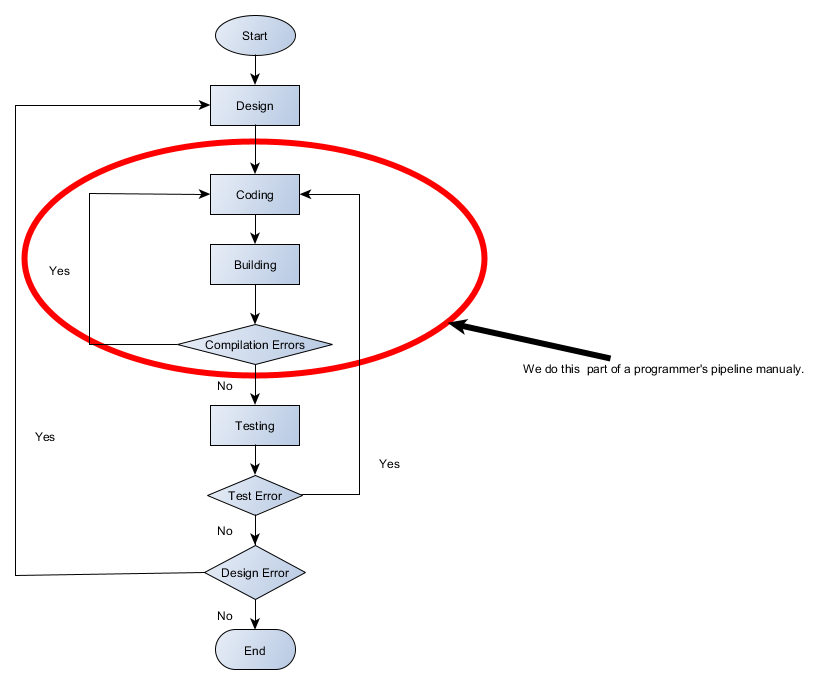
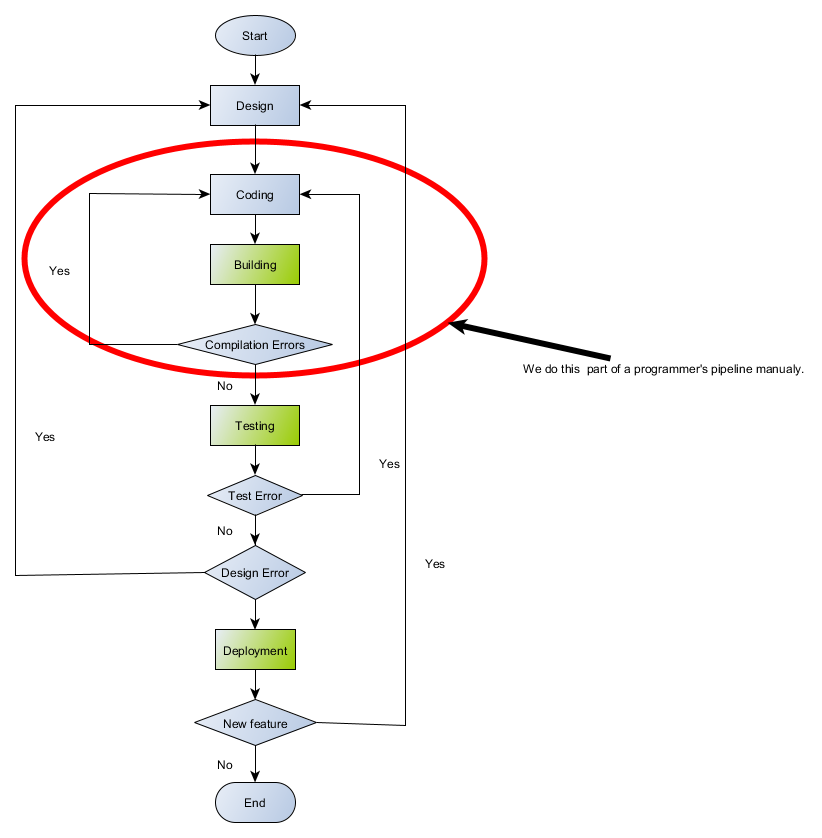
Command line update.

diff --git a/Docs/CommandLine.md b/Docs/CommandLine.md
@@ -18,7 +18,15 @@ Our previous levels were a breeze, but from then on the story shifts gears. Get 
 ## A typical programmer's pipeline
 
 ![Simple flowchart](../assets/ProgrammerFlowChart.png)  
-Figure 1.1 A programmer flowchart
+Figure 1.1 A programmer flowchart  
+
+[Design](https://en.wikipedia.org/wiki/Software_design) is the process we create a specification of a solution.  
+[Coding](https://en.wikipedia.org/wiki/Computer_programming) is the realization of an application.  
+[Building](https://en.wikipedia.org/wiki/Software_build) is the process of converting source code files into standalone software binaries.  
+[Testing](https://en.wikipedia.org/wiki/Software_testing) is the process of checking quality and finding bugs.:bug::bug::bug:  
+[Deployment](https://en.wikipedia.org/wiki/Software_deployment) is all of the activities that make a software system available for use.  
+
+In this tutorial we'll use [CMake]({{site.baseurl}}/Docs/AdditionalReadingResources#cmake-id). It is a suite of tools which can help us to end up our project successfully. It is useful from building then testing right through to preparing packages ready for distribution.
 
 ## Building binaries
 
@@ -26,11 +34,13 @@ We need the three basic tools :hammer::hammer::hammer: to build C++ applications
 the librarian:hammer:. **Remember these are command line tools.** Again a [**toolchain**](https://en.wikipedia.org/wiki/Toolchain) is a set of these programs and additional tools. The compiler transforms C++ source code files and produces [object file](https://en.wikipedia.org/wiki/Object_file). The librarian create a static library from a set of object files. The linker takes object files and libraries and resolves their symbolic references to generate an executable (application) or a dynamic/shared library. The object files and static libraries are only needed during building an application. An executable may depend on dynamic/shared libraries thus they are essential during the execution of app and have to be accessible when the application is running. What is more one shared library may rely on other shared ones.  
 
 ![Build process](../assets/buildprocess.png)  
-Figure 1.2 The Three Musketeers (a compiler, librarian and linker) in action
+Figure 1.2 The compile and link process.  
+
+The figure above presents **The Three Musketeers** (a compiler, librarian and linker) in action. On the left you see a process of creation of a static library, which is later linked to an executable or dynamic link library by the linker.
 
 ### Compilation environment
 
-The tools in the toolchain are command-line build tools, which need several environment variables to work properly. Variables are customized for your installation and build configuration. For instance Visual C++ command-line tools use the PATH, TMP, INCLUDE, LIB, and LIBPATH environment variables. (see detail [Set the Path and Environment Variables for Command-Line Builds]({{site.baseurl}}/Docs/AdditionalReadingResources#MSVC-id)). For GNU compilers see [Environment Variables Affecting GCC]({{site.baseurl}}/Docs/AdditionalReadingResources#GNU-id). As a cross-platform programmers we should think abstractively. Try to think of building process in general terms and treat your build tools as a implementation of a part of this abstraction. Just like [OOP](https://en.wikipedia.org/wiki/Object-oriented_programming). When I write a terminal or a console I mean any implementation of it, [macOS](https://en.wikipedia.org/wiki/Terminal_(macOS)), [Mintty]({{ site.baseurl}}/Docs/AdditionalReadingResources#MSYS2-id) for example. A shell, it can be [Bash]({{ site.baseurl}}/Docs/AdditionalReadingResources#GNU-id), [Cmd]({{ site.baseurl}}/Docs/AdditionalReadingResources#MSVC-id). To prepare a compilation environment Windows toolchains provide scripts (see details [piggybacking](#piggybackings) for [MSVC](#msvc)  and [Mingw64-shell](#mingw64-shell)) that set a number of environment variables required for build tools. On Linux there is typically a dominant C++ compiler and the compiling environment is set out of box. A process of building binaries can be described as follow:
+To work properly a compiler needs a correct operating environment. The tools in the toolchain are command-line build tools, which need several environment variables to work properly. Variables are customized for your installation and build configuration. For instance Visual C++ command-line tools use the PATH, TMP, INCLUDE, LIB, and LIBPATH environment variables. (see detail [Set the Path and Environment Variables for Command-Line Builds]({{site.baseurl}}/Docs/AdditionalReadingResources#MSVC-id)). For GNU compilers see [Environment Variables Affecting GCC]({{site.baseurl}}/Docs/AdditionalReadingResources#GNU-id). As a cross-platform programmers we should think abstractively. Try to think of building process in general terms and treat your build tools as a implementation of a part of this abstraction. Just like [OOP](https://en.wikipedia.org/wiki/Object-oriented_programming). When I write a terminal or a console I mean any implementation of it, [macOS](https://en.wikipedia.org/wiki/Terminal_(macOS)), [Mintty]({{ site.baseurl}}/Docs/AdditionalReadingResources#MSYS2-id) for example. A shell, it can be [Bash]({{ site.baseurl}}/Docs/AdditionalReadingResources#GNU-id), [Cmd]({{ site.baseurl}}/Docs/AdditionalReadingResources#MSVC-id). To prepare a compilation environment Windows toolchains provide scripts (see details [piggybacking](#piggybackings) for [MSVC](#msvc)  and [Mingw64-shell](#mingw64-shell)) that set a number of environment variables required for build tools. On Linux there is typically a dominant C++ compiler and the compiling environment is set out of box. A process of building binaries can be described as follow:
 
 - open your terminal/console;  
 - if it's applicable set any environment variables required by your toolset;  
@@ -38,6 +48,13 @@ The tools in the toolchain are command-line build tools, which need several envi
 
 For Windows users. Very often for Mingw64 compiler setting Path variable is enough. Although using shortcut [Mingw64-shell](#mingw64-shell) is **preferable**. To set variable write in command line:  
     **set PATH=\<directory where your Mingw64 compiler is>;%PATH%**;
+
+### Compilation process
+
+![Compilation process](../assets/CompilationProcess.png)  
+Figure 1.3 The compilation process.
+
+In the first preprocessor stage the contents of all header files (.h) are included into source file (.cpp). A [translation unit]({{site.baseurl}}/Docs/AdditionalReadingResources#compiler) is created. It means that all macros are expanded, #pragma information is added, each #ifdef/ifndef is validated. Sections of code is included or skipped respectably. The each translation unit is compiled and an object file is generated. The object file contains native machine code and information about external references. In the next stage the linker resolves external references, joins code from other object files or libraries. If the linker finds all externals the executable or dynamic dll is generated. Otherwise no binary is produces and error messages from the linker are sent to the console.
 
 ### Building executable
 
@@ -52,7 +69,7 @@ int main()
 }
 ```  
 
-Look at the diagram, we are just after the design step. We decided to use the standard cout function in our application that writes text to standard output stream which prints the "Hello, World!" string on   our monitor. No bad, very good design!  
+Look at the [Figure 1.1](#a-typical-programmers-pipeline), we are just after the design step. We decided to use the standard cout function in our application that writes text to standard output stream which prints the "Hello, World!" string on   our monitor. No bad, very good design!  
 **Go on and get your hands dirty !**
 
 1. Coding:smile: :smile: :smile: - a preparation App Source Code:
@@ -95,6 +112,7 @@ Compile your source code again. Now, after we do that and assuming that we didn'
 
 ### Build static library
 
+Static libraries is a set of object files (with typical extension *.obj or *.o), composed into a single file. It should not contain any specifying storage-class information (__declspec or __attribute((dll...))).  
 Under construction
 
 ### Build dynamic library
@@ -117,7 +135,8 @@ Additionally we have available piggybackings, the facilities for programmers who
 
 #### MSVC
 
-For detail see [Build C/C++ code on the command line]({{site.baseurl}}/Docs/AdditionalReadingResources#MSVC-id). These shortcuts open terminal and set a compiler environment; just use one of them  
+For detail see [Build C/C++ code on the command line]({{site.baseurl}}/Docs/AdditionalReadingResources#MSVC-id) and [C/C++ Build Tools]({{site.baseurl}}/Docs/AdditionalReadingResources#MSVC-id).  
+These shortcuts below open terminal and set a compiler environment; just use one of them  
 ![Visual Studio](../assets/VsCommandPrompt.png)  
 Hey a tough guy wanna more?  
 If you have not standard installation of Visual Studio or you are curious, do you want to know where a workhorse is?  

diff --git a/Docs/AdditionalReadingResources.md b/Docs/AdditionalReadingResources.md
@@ -7,6 +7,14 @@ next_page: Badge
 
 # Additional Reading Resources
 
+## C++
+
+[C++ Core Guidelines](https://github.com/isocpp/CppCoreGuidelines)  
+
+[Thinking in C++, 2nd ed. Volume 1](http://web.mit.edu/merolish/ticpp/Frames.html)  
+
+[Thinking In C++ Volume 2: Practical Programming](http://web.mit.edu/merolish/ticpp/TicV2.html)
+
 ## Cmake
 
 [The documentation of CMake](https://cmake.org/cmake/help/latest/)  
@@ -15,13 +23,11 @@ next_page: Badge
 
 [CMake driven cross-platform package manager for C/C++. Linux, Windows, macOS, iOS, Android, Raspberry Pi, etc.](https://docs.hunter.sh/en/latest/)  
 
-## C++
+## Compiler
 
-[C++ Core Guidelines](https://github.com/isocpp/CppCoreGuidelines)  
-
-[Thinking in C++, 2nd ed. Volume 1](http://web.mit.edu/merolish/ticpp/Frames.html)  
-
-[Thinking In C++ Volume 2: Practical Programming](http://web.mit.edu/merolish/ticpp/TicV2.html)
+[C++ compilers](http://www.stroustrup.com/compilers.html)  
+[Compilation in details](http://faculty.cs.niu.edu/~mcmahon/CS241/Notes/compile.html)  
+[Translation unit](https://en.wikipedia.org/wiki/Translation_unit_(programming))
 
 ## Dependency injection
 
@@ -37,6 +43,7 @@ next_page: Badge
 ## MSVC {#MSVC-id}
 
 [Build C/C++ code on the command line](https://docs.microsoft.com/en-us/cpp/build/building-on-the-command-line?view=vs-2017)  
+[C/C++ Build Tools](https://docs.microsoft.com/en-us/cpp/build/reference/c-cpp-build-tools?view=vs-2017)  
 [CL Environment Variables](https://docs.microsoft.com/en-us/cpp/build/reference/cl-environment-variables?view=vs-2017)  
 [Cmd](https://docs.microsoft.com/en-us/windows-server/administration/windows-commands/cmd)  
 [Setting the path and environment variables](https://docs.microsoft.com/en-us/cpp/build/setting-the-path-and-environment-variables-for-command-line-builds?view=vs-2017)  
